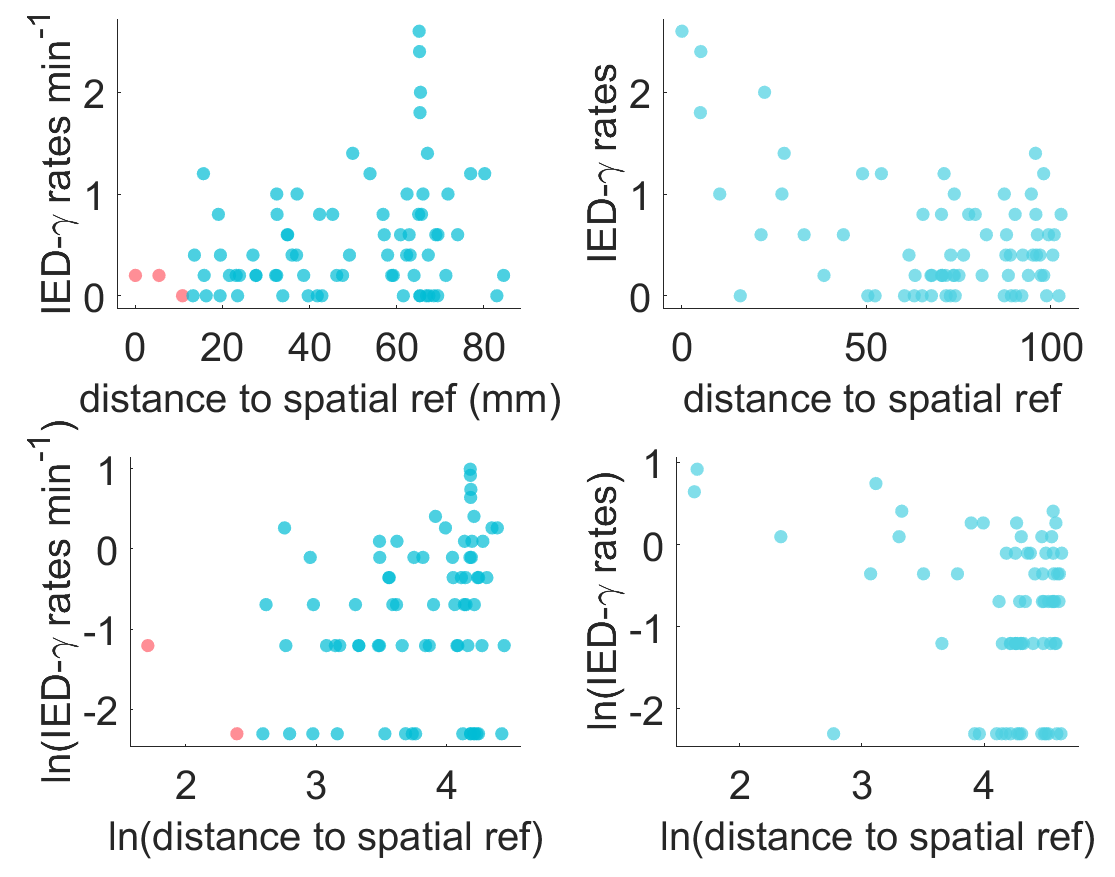
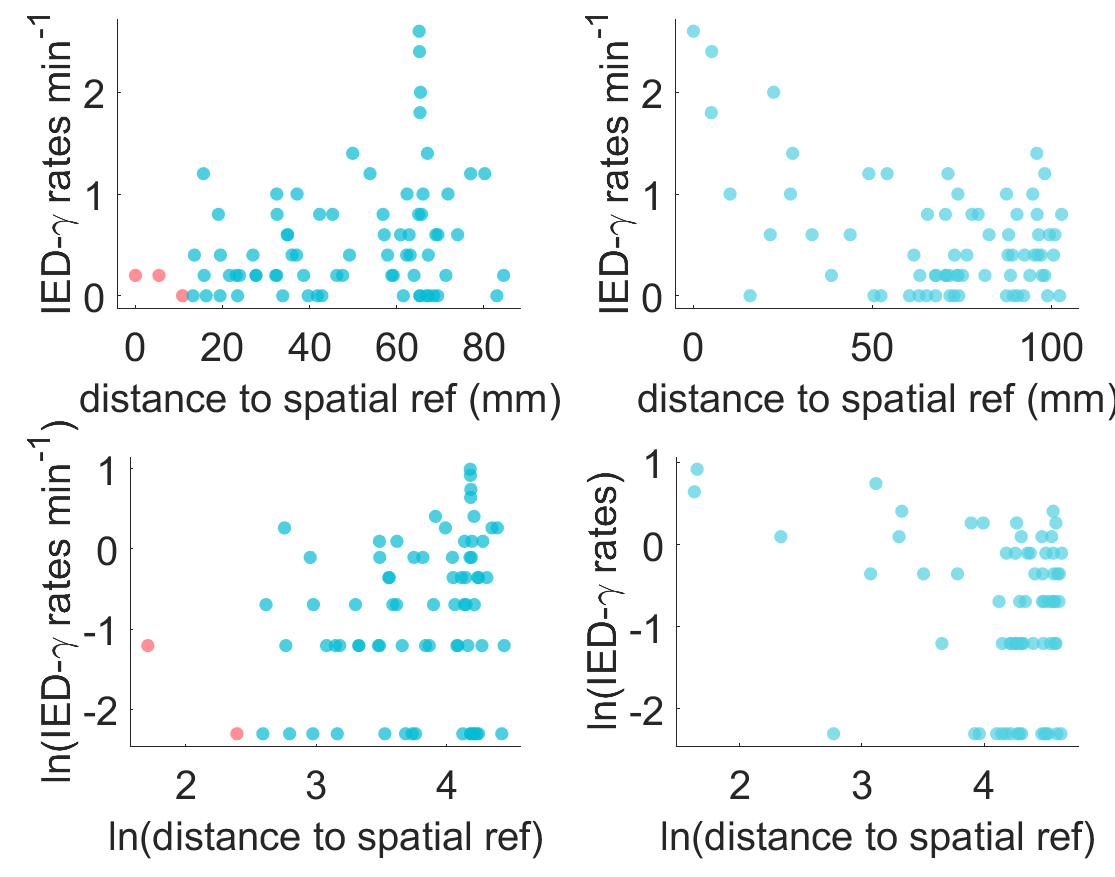
some fixes

diff --git a/vSP_demo.m b/vSP_demo.m
@@ -124,7 +124,7 @@ gr(2,1).no_legend();
 gr(1,2) = gramm('x', data{2,1}(:,1), 'y', data{2,1}(:,2));
 gr(1,2).geom_point('alpha',0.7);
 gr(1,2).set_point_options("base_size",10);
-gr(1,2).set_names('x', 'distance to spatial ref', 'y', "IED-\gamma rates");
+gr(1,2).set_names('x', 'distance to spatial ref (mm)', 'y', "IED-\gamma rates min^{-1}");
 gr(1,2).set_text_options('interpreter', 'tex','base_size',30);
 gr(1,2).set_color_options('map',[76 208 225]/255,'n_color',1,'n_lightness',1);
 gr(1,2).no_legend();
